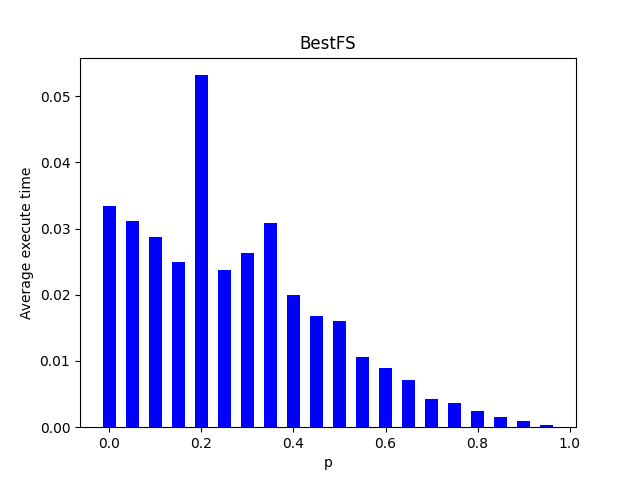
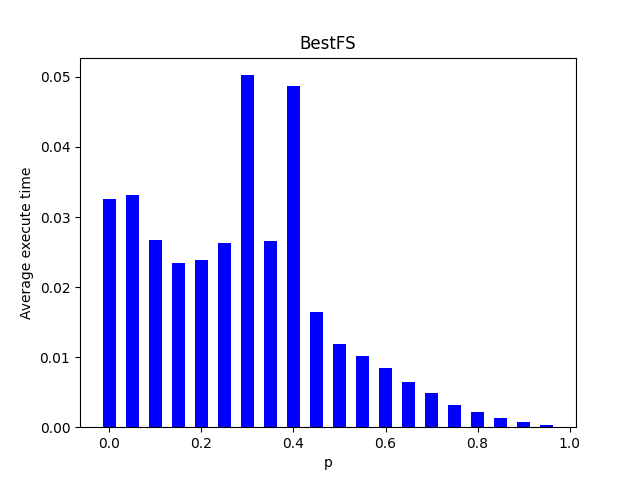
update

diff --git a/test.py b/test.py
@@ -12,7 +12,7 @@ SUB_GRID = int(math.sqrt(PUZZLE_SIZE))
 NUM_OF_CATEGORIES = 20
 STEP = 1/NUM_OF_CATEGORIES
 NUM_OF_INSTANCES = 10
-NUM_OF_REPEAT = 10
+NUM_OF_REPEAT = 5
 
 def is_valid(board, row, col, num):
     # Check if the number is already present in the current row
@@ -278,7 +278,7 @@ def solve_puzzle(is_read_from_file=False, type_algorithm="DFS"):
                     tracemalloc.start()
                     peak_memory_usage = tracemalloc.get_traced_memory()[0]
                     solved_board = DFS((puzzle))
-                    peak_memory_usage = peak_memory_usage - tracemalloc.get_traced_memory()[0]
+                    peak_memory_usage = tracemalloc.get_traced_memory()[0] - peak_memory_usage
                     tracemalloc.stop()
                     # peak_memory_usage = resource.getrusage(resource.RUSAGE_SELF).ru_maxrss - peak_memory_usage
                     end_time = time.time()
@@ -294,7 +294,7 @@ def solve_puzzle(is_read_from_file=False, type_algorithm="DFS"):
                     tracemalloc.start()
                     peak_memory_usage = tracemalloc.get_traced_memory()[0]
                     solved_board = best_first_search((puzzle))
-                    peak_memory_usage = peak_memory_usage - tracemalloc.get_traced_memory()[0]
+                    peak_memory_usage = tracemalloc.get_traced_memory()[0] - peak_memory_usage
                     tracemalloc.stop()
                     # peak_memory_usage = resource.getrusage(resource.RUSAGE_SELF).ru_maxrss - peak_memory_usage
                     end_time = time.time()
